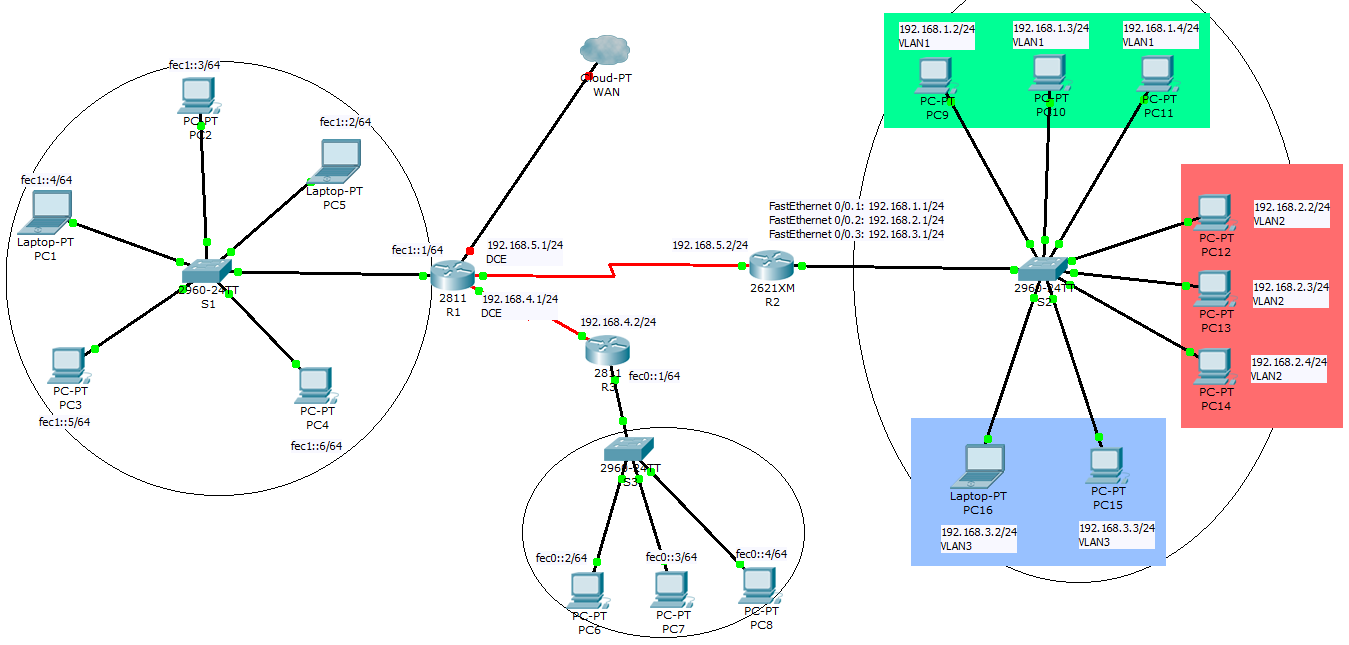
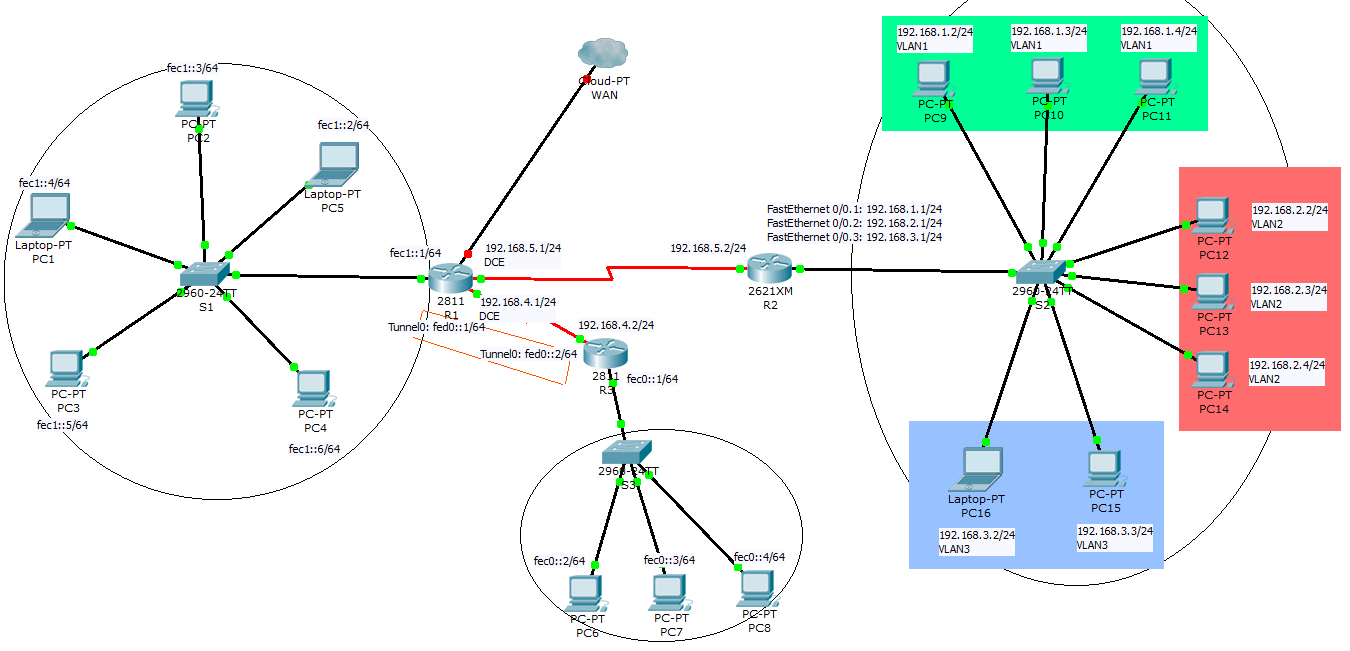
dodany tunel IPv6, zmienione formatowanie na ladniejsze, uzupelnione dane projektu - data, autorzy, itp

diff --git a/siec.tex b/siec.tex
@@ -13,27 +13,29 @@
 \usepackage{hyperref}
 \usepackage{fancyhdr}
 
+\definecolor{light-gray}{gray}{0.95}
+
 \lstset {
-language=Java,
+basicstyle=\footnotesize\ttfamily,
 captionpos=t,
 tabsize=2,
 frame=lines,
 keywordstyle=\color{blue},
 commentstyle=\color{gray},
 stringstyle=\color{red},
-numbers=left,
-numberstyle=\tiny,
-numbersep=5pt,
 breaklines=true,
 showstringspaces=false,
 basicstyle=\footnotesize,
-emph={label}
+emph={label},
+backgroundcolor=\color{light-gray}
 }
 \DeclareCaptionFont{white}{\color{white}}
 \DeclareCaptionFormat{listing}{\colorbox{gray}{\parbox[c][0.25cm]{\textwidth}{#1#2#3}}}
 \captionsetup[lstlisting]{format=listing,labelfont=white,textfont=white}
 
 \geometry{verbose,tmargin=2cm,bmargin=2cm,lmargin=2cm,rmargin=2cm,headheight=2cm,headsep=2cm,footskip=1cm}
+
+ \renewcommand{\familydefault}{\sfdefault}
 
 \begin{document}
 
@@ -43,10 +45,13 @@ emph={label}
 \renewcommand{\headrulewidth}{0pt}
 \renewcommand{\footrulewidth}{0pt}
 
-\author{Bartłomiej Hyży\\Informatyka Stosowana, III rok\\WEAIiE, AGH}
-\date{13.06.2011}
+\author{Bartłomiej Hyży, Łukasz Mielczarek, Adrian Sudoł\\Informatyka Stosowana, IV rok\\WEAIiE, AGH}
+\date{30.11.2011}
 \title{Administracja sieciami lokalnymi -\\projekt sieci LAN}
 \maketitle
+
+\tableofcontents
+\pagebreak
 
 \thispagestyle{fancy}
 
@@ -58,6 +63,7 @@ Poniższy schemat przedstawia zaprojektowaną przez nas sieć lokalną. Zbudowan
     \caption{Schemat budowy sieci LAN} \label{fig:schemat} 
   \end{center}
 \end{figure}
+
 
 \section{Wstępna konfiguracja sieci}
 Pierwszym krokiem jest skonfigurowanie podstawowych ustawień routerów, switchy oraz hostów, takich jak adresy interfejsów czy sieci wirtualne.
@@ -302,6 +308,77 @@ S2(config-if)#exit
 
 
 \subsection{Konfiguracja tunelu IPv6 przez IPv4}
+Końcowym etapem wstępnej konfiguracji naszej sieci LAN jest zestawienie tunelu łączącego dwie podsieci (na schemacie: lewą i dolną) adresowane w IPv6, a prowadzącego poprzez podsieć adresowaną w IPv4. Jako uzasadnienie takiego tunelu można uznać chęć połączenia nowych podsieci zestawionych w adresacji IPv6 za pomocą istniejącej infrastruktury sieciowej IPv4.
+Tunel należy skonfigurować na obu routerach krańcowych połączenia, tj. R1 i R3.
+\begin{figure}[!htb]
+\begin{center}
+    \includegraphics[width=0.5\textwidth]{tunel.png}
+    \caption{Schemat budowanego tunelu} \label{fig:tunel} 
+\end{center}
+\end{figure}
+
+\subsubsection{Router R1}
+Konfigurację tunelu rozpoczynami od jego końca na routerze R1. W pierwszej kolejności przechodzimy do trybu konfiguracji i aktywujemy routing unicastowy IPv6:
+\begin{lstlisting}
+R1>enable
+R1#conf t
+Enter configuration commands, one per line.  End with CNTL/Z.
+R1(config)#ipv6 unicast-routing 
+\end{lstlisting}
+Następnie przechodzimy do konfiguracji właściwego tunelu:
+\begin{lstlisting}
+R1(config)#interface tunnel 0
+
+%LINK-5-CHANGED: Interface Tunnel0, changed state to up
+
+! skasowanie adresu IPv4 koncowki tunelu
+R1(config-if)#no ip address 
+! ustalenie adresu IPv6 koncowki tunelu
+R1(config-if)#ipv6 address fed0::1/64
+! aktywacja obslugi IPv6 dla interfejsu tunelowego
+R1(config-if)#ipv6 enable
+! ustawienie zrodla tunelowanych pakietow
+R1(config-if)#tunnel source fastEthernet 0/0
+! ustawienie celu tunelowanych pakietow - interfejs routera R3
+R1(config-if)#tunnel destination 192.1684.4.2
+! ustalenie trybu enkapsulacji pakietow IPv6 przechodzacych przez tunel
+R1(config-if)#tunnel mode ipv6ip
+R1(config-if)#exit
+
+! ustalenie statycznej sciezki routingu do podsieci routera R3 przez tunel
+R1(config)#ipv6 route fec0::0/64 fed0::2
+\end{lstlisting}
+
+\subsubsection{Router R3}
+Konfiguracja drugiego końca tunelu w routerze R3 przebiega analogicznie:
+\begin{lstlisting}
+R3>enable
+R3#conf t
+Enter configuration commands, one per line.  End with CNTL/Z.
+R3(config)#ipv6 unicast-routing 
+R3(config)#interface tunnel 0
+
+%LINK-5-CHANGED: Interface Tunnel0, changed state to up
+
+! skasowanie adresu IPv4 koncowki tunelu
+R3(config-if)#no ip address 
+! ustalenie adresu IPv6 koncowki tunelu
+R3(config-if)#ipv6 address fed0::2/64
+! aktywacja obslugi IPv6 dla interfejsu tunelowego
+R3(config-if)#ipv6 enable
+! ustawienie zrodla tunelowanych pakietow
+R3(config-if)#tunnel source fastEthernet 0/0
+! ustawienie celu tunelowanych pakietow - interfejs routera R3
+R3(config-if)#tunnel destination 192.1684.4.1
+! ustalenie trybu enkapsulacji pakietow IPv6 przechodzacych przez tunel
+R3(config-if)#tunnel mode ipv6ip
+R3(config-if)#exit
+
+! ustalenie statycznej sciezki routingu do podsieci routera R3 przez tunel
+R3(config)#ipv6 route fec1::0/64 fed0::1
+\end{lstlisting}
+
+
 \section{Listy ACL}
 \section{Konfiguracja routingu}
 \section{NAT}
